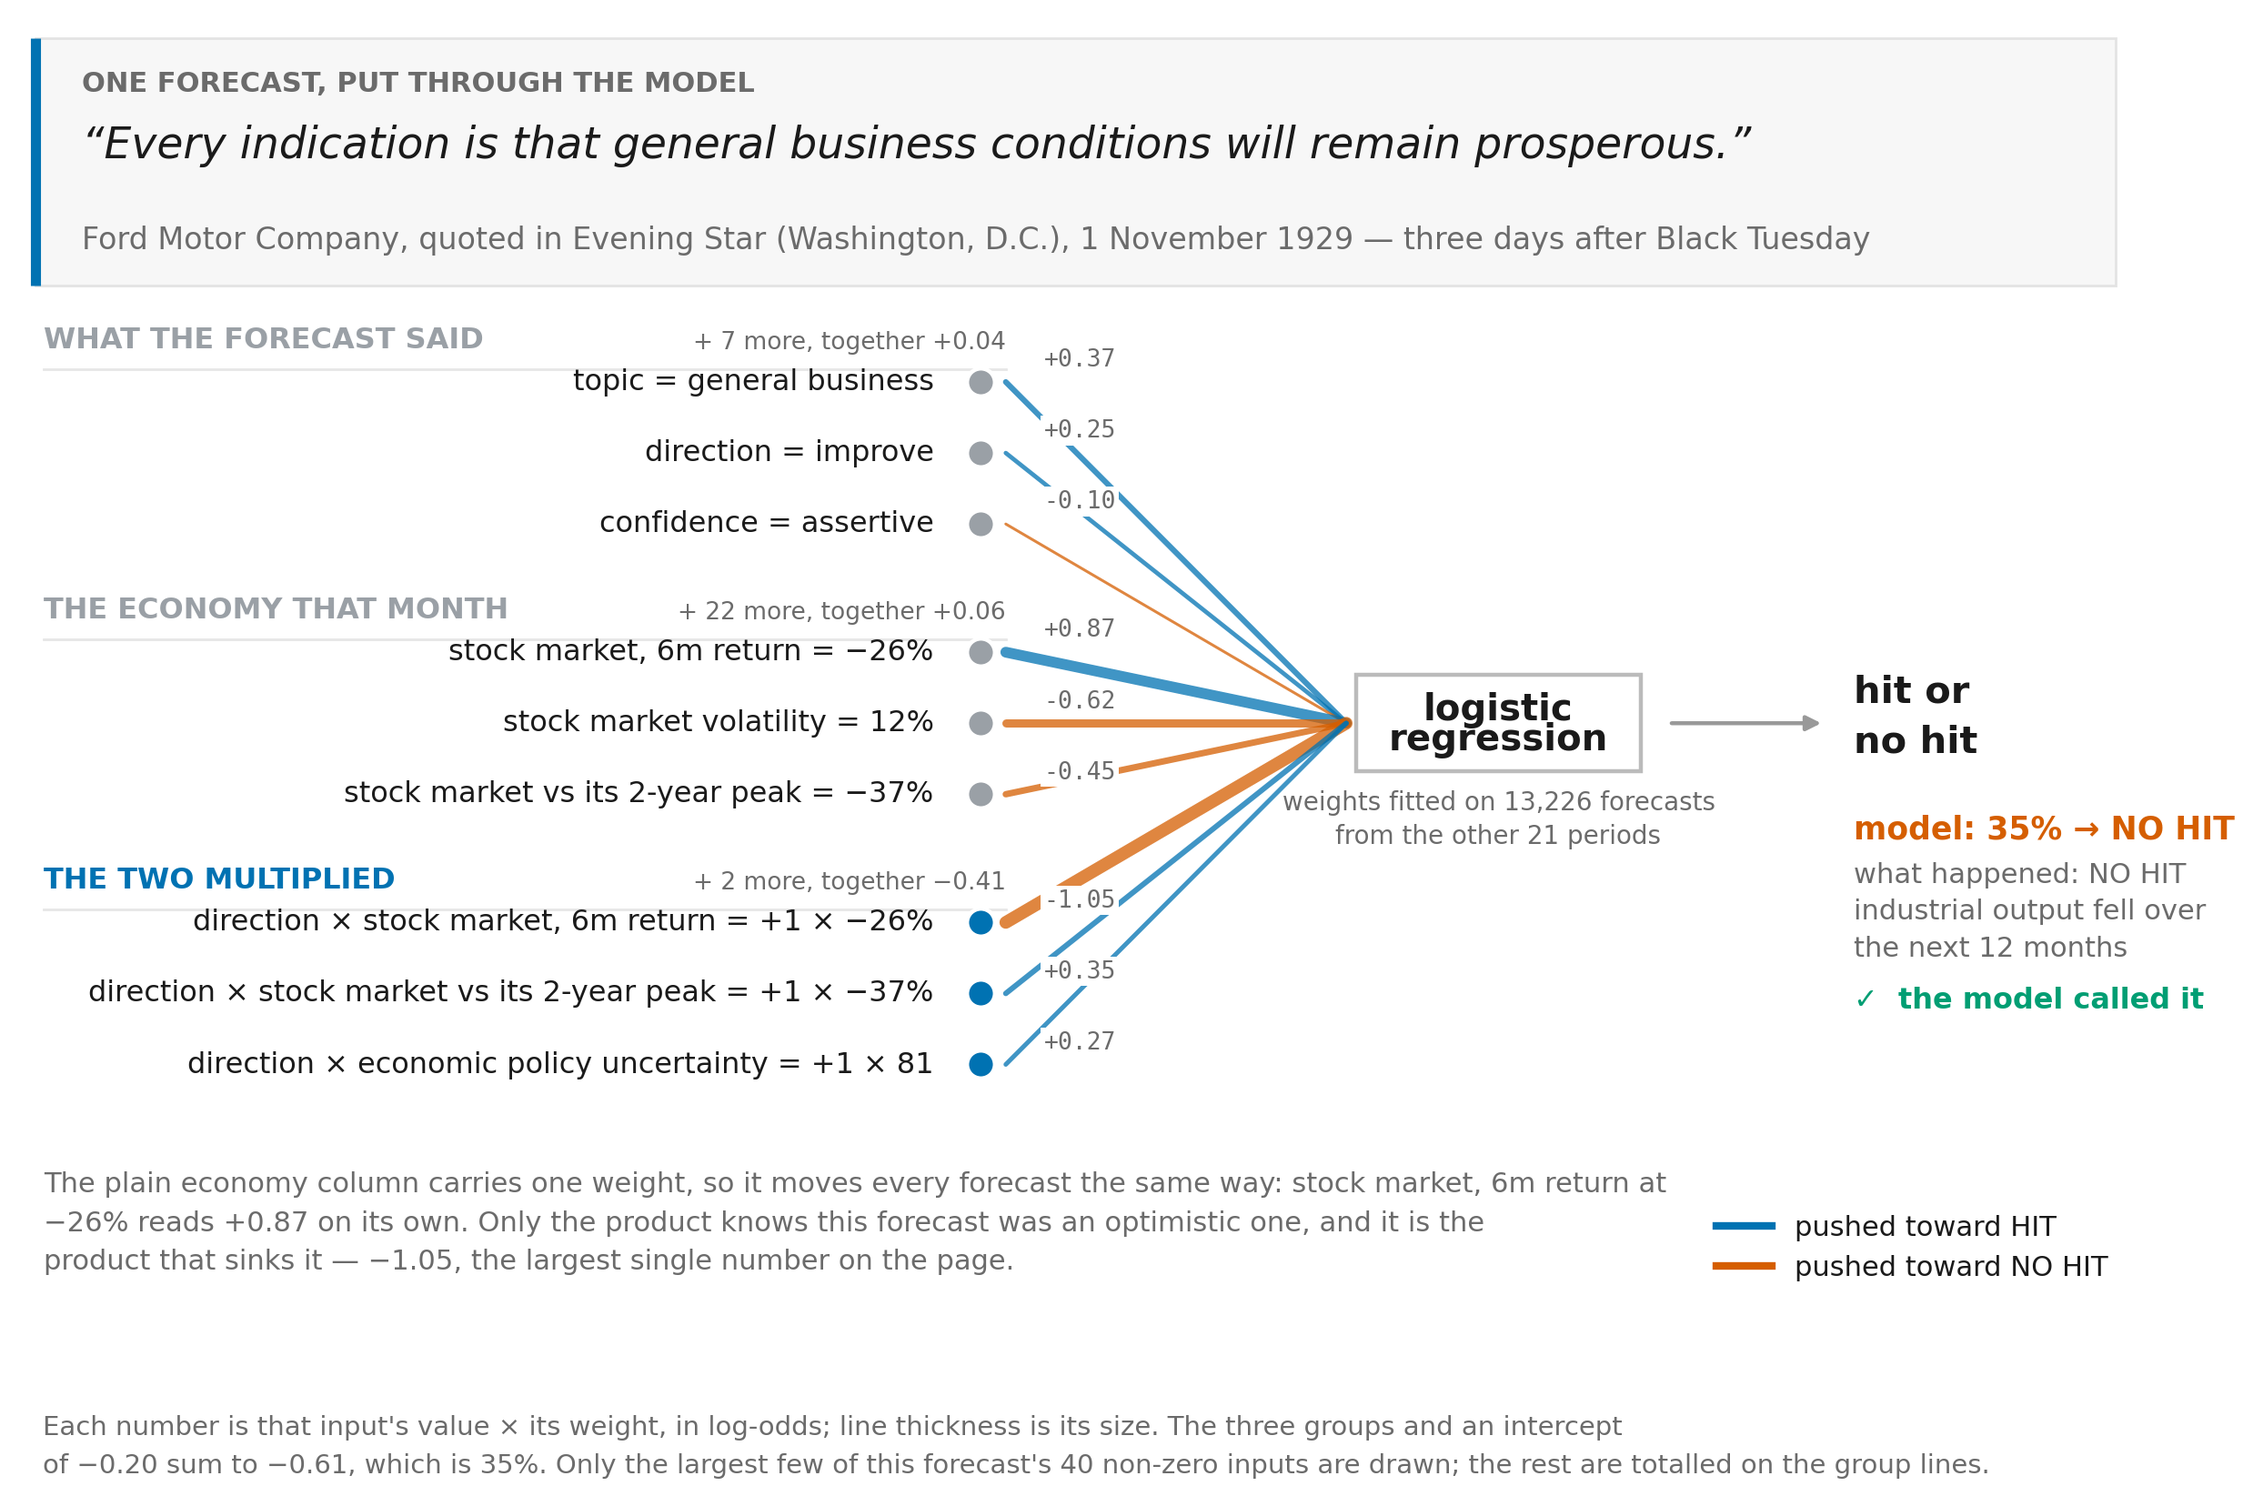
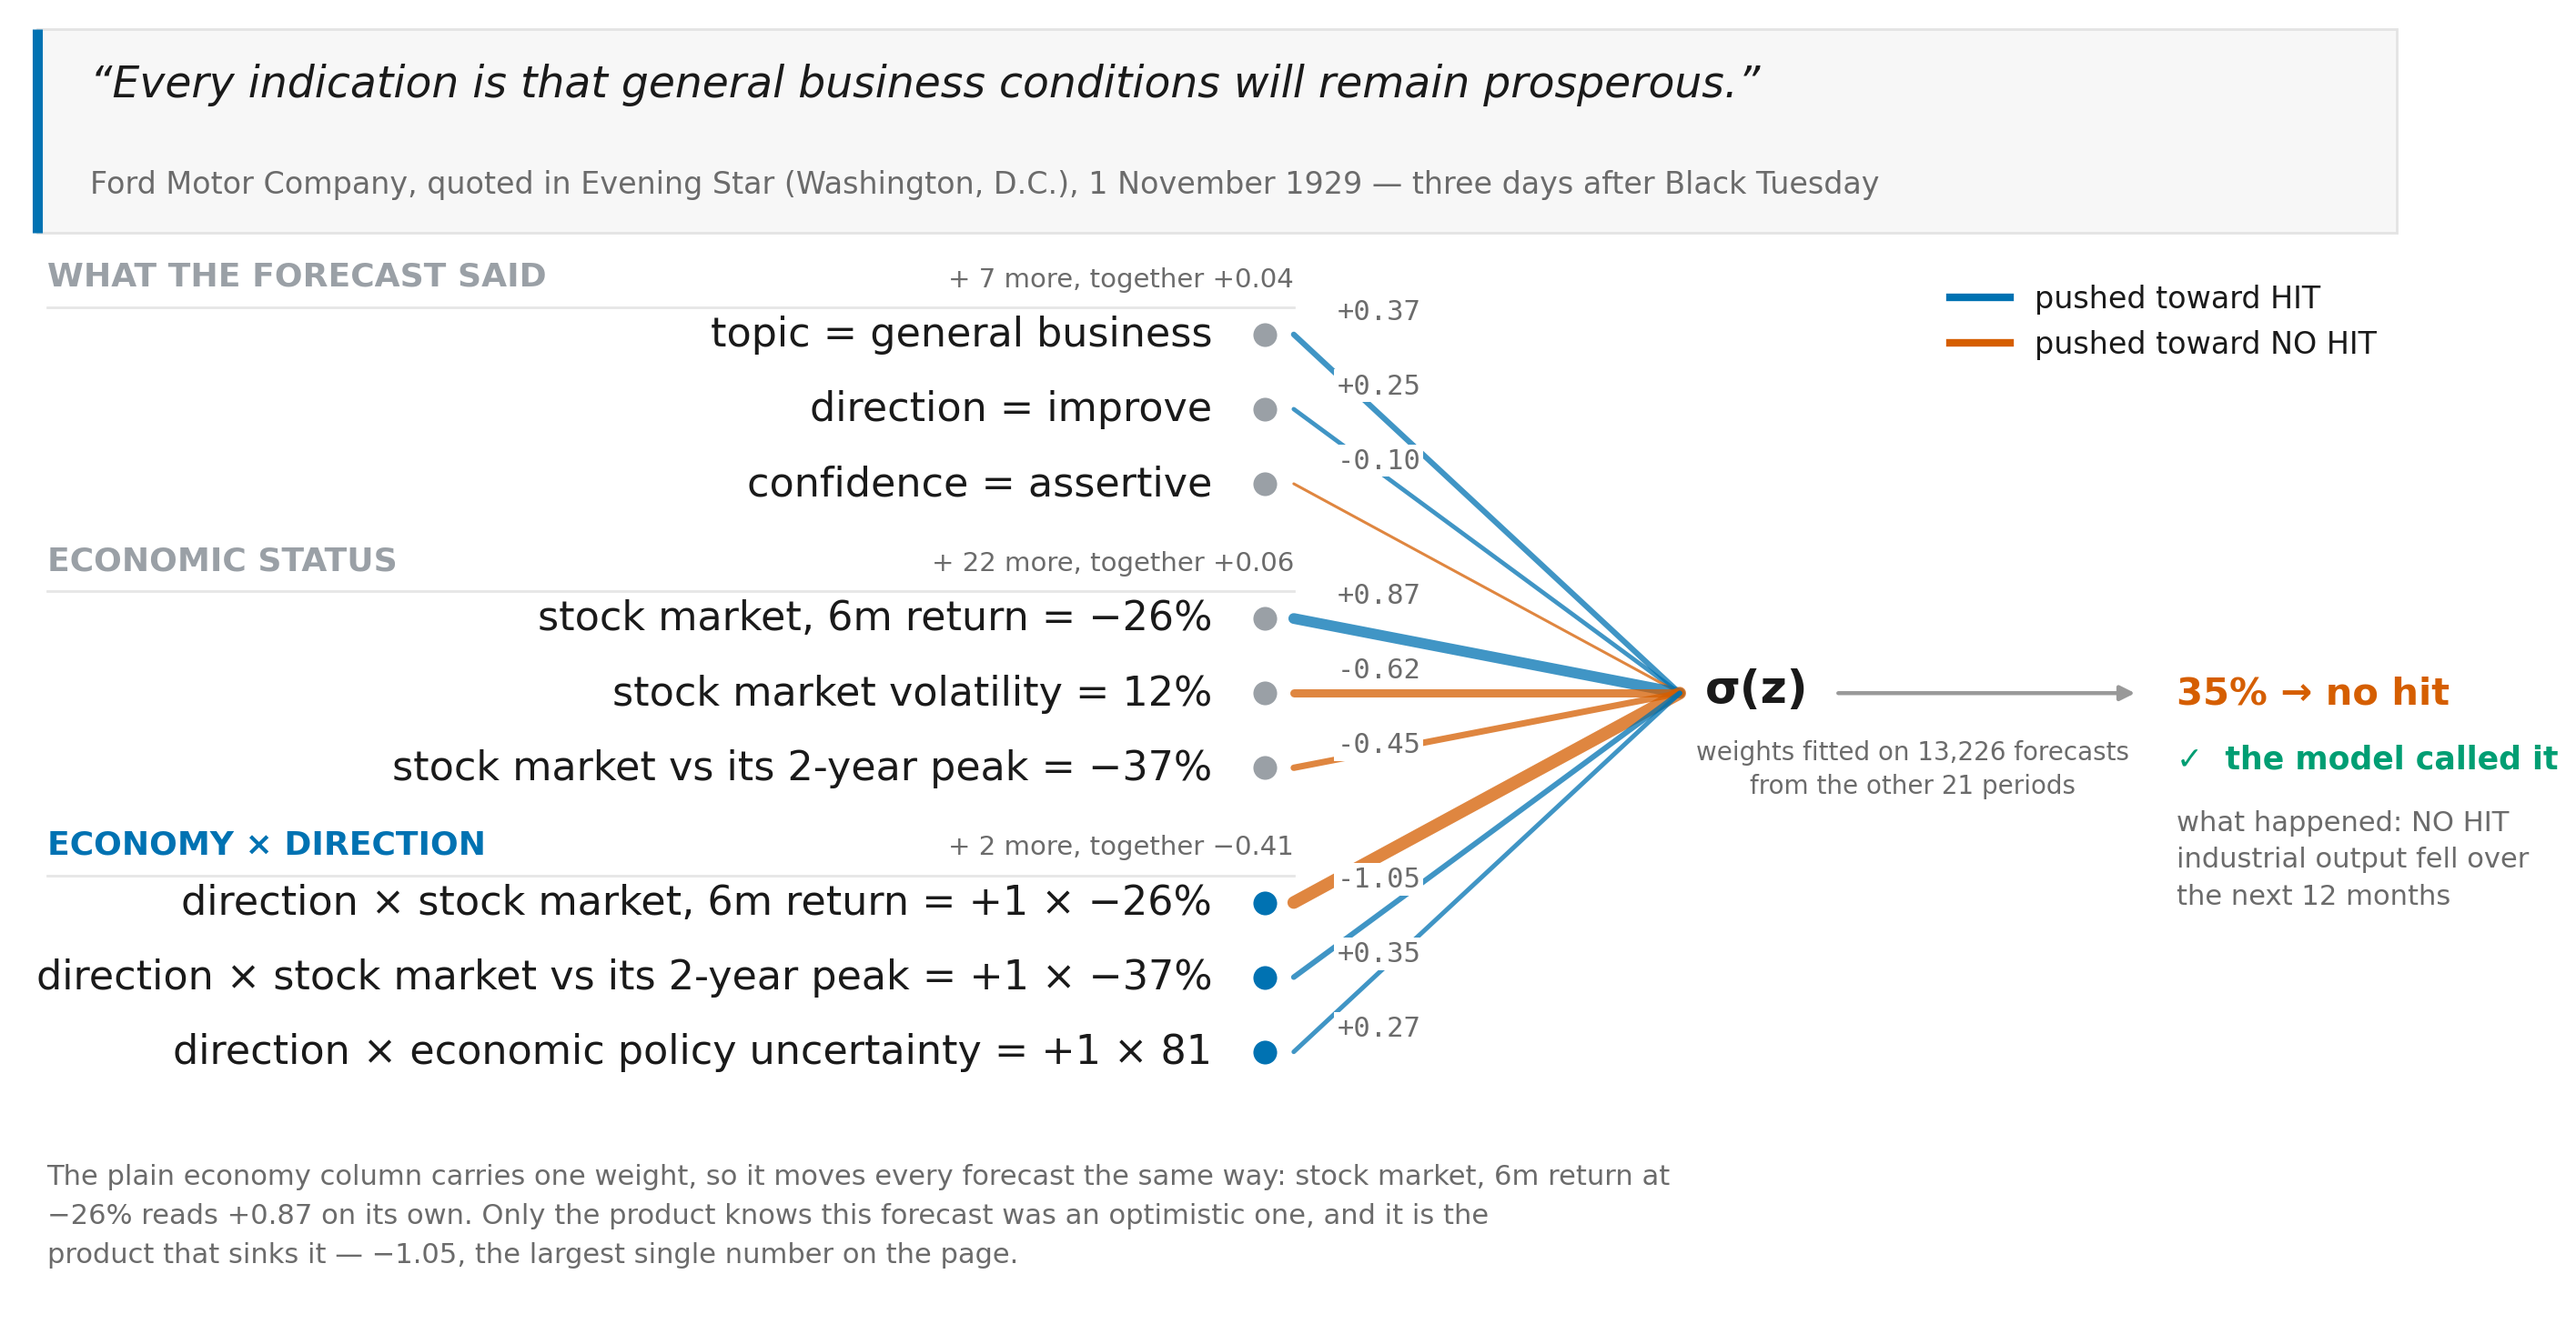
more

diff --git a/src/make_lr_figures.py b/src/make_lr_figures.py
@@ -345,9 +345,9 @@ def fig_ladder_lr():
 # makes the group subtotals fail to add up to the log-odds printed underneath.
 GROUPS = [
     ("what the forecast said", hp.CLAIM_CAT + hp.CLAIM_NUM, GRAY),
-    ("the economy that month",
+    ("economic status",
      [f"m_{f}" for f in FACTORS] + [f"has_{f}" for f in FACTORS], GRAY),
-    ("the two multiplied", hp.INTER_NUM, BLUE),
+    ("economy × direction", hp.INTER_NUM, BLUE),
 ]
 
 # The one claim the figure walks through. Matched on fields rather than a row
@@ -442,7 +442,6 @@ def fig_graph(d, X, y, groups, per_group=3, spec=EXAMPLE):
     est, n_train, n_blocks = _fit_excluding(X, y, groups, groups[i])
     C = _contributions(est, X, i)
     p = float(est.predict_proba(X.iloc[[i]])[0, 1])
-    b0 = float(est.named_steps["clf"].intercept_[0])
     live = C[C["z"] != 0]           # an input at its mean moved nothing
 
     def value(n):
@@ -499,24 +498,26 @@ def fig_graph(d, X, y, groups, per_group=3, spec=EXAMPLE):
         sel = list(live.loc[cols, "contrib"].abs()
                    .sort_values(ascending=False).head(per_group).index)
         rest = [c for c in cols if c not in sel]
-        headers.append((name, colr, yy_cursor + 0.030, len(rest),
+        headers.append((name, colr, yy_cursor + 0.044, len(rest),
                         float(live.loc[rest, "contrib"].sum())))
         for c in sel:
             chosen.append((c, colr, yy_cursor))
             yy_cursor -= ROW
         yy_cursor -= GAP
 
-    fig, ax = plt.subplots(figsize=(15.0, 9.2))
-    ax.set_xlim(0, 1); ax.set_ylim(yy_cursor + GAP - 0.185, 1.30)
+    # Wider than tall on purpose: the input labels are the longest text on the
+    # figure, and inches of width are what let them be set large. The top limit
+    # sits just above the quote box -- bbox_inches="tight" keeps the whole axes
+    # patch, so any headroom past the box printed as a band of white above it.
+    fig, ax = plt.subplots(figsize=(17.0, 9.2))
+    ax.set_xlim(0, 1); ax.set_ylim(yy_cursor + GAP - 0.185, 1.232)
     ax.axis("off"); ax.grid(False)
 
     # -- the forecast itself, quoted across the top ---------------------------
-    ax.add_patch(plt.Rectangle((0.008, 1.010), 0.984, 0.268, facecolor="#f7f7f7",
+    ax.add_patch(plt.Rectangle((0.008, 1.010), 0.984, 0.210, facecolor="#f7f7f7",
                                edgecolor="#e3e3e3", lw=1.0, zorder=0))
-    ax.plot([0.008, 0.008], [1.010, 1.278], color=BLUE, lw=4.0, zorder=1,
+    ax.plot([0.008, 0.008], [1.010, 1.220], color=BLUE, lw=4.0, zorder=1,
             solid_capstyle="butt")
-    ax.text(0.030, 1.243, "ONE FORECAST, PUT THROUGH THE MODEL", fontsize=11,
-            fontweight="bold", color=MUTED, va="top")
     ax.text(0.030, 1.185, f"“{row['quote'].strip()}”", fontsize=17,
             style="italic", va="top", color=INK)
     speaker = str(row.get("speaker_name", "na"))
@@ -528,7 +529,10 @@ def fig_graph(d, X, y, groups, per_group=3, spec=EXAMPLE):
 
     ys = [t[2] for t in chosen]
     chosen = [(c, colr) for c, colr, _ in chosen]
-    x_node, x_lr = 0.455, 0.700
+    # The node column sits far enough right for the longest label -- "direction
+    # x stock market vs its 2-year peak = ..." at 13.5pt -- to clear the group
+    # headers on the left edge; sigma(z) and the verdict move right to match.
+    x_node, x_lr = 0.520, 0.765
     y_mid = (ys[0] + ys[-1]) / 2
     biggest = max(abs(live.at[c, "contrib"]) for c, _ in chosen)
 
@@ -542,46 +546,35 @@ def fig_graph(d, X, y, groups, per_group=3, spec=EXAMPLE):
     for (c, colr), yy in zip(chosen, ys):
         ax.plot([x_node], [yy], "o", ms=11, color=colr, mec="white", mew=1.6,
                 zorder=4)
-        ax.text(x_node - 0.022, yy, nice(c), fontsize=11.5, ha="right",
+        ax.text(x_node - 0.022, yy, nice(c), fontsize=16, ha="right",
                 va="center", color=INK)
         # White bbox: the edge leaves the node at a steep angle and passes
         # straight through where the number would otherwise sit.
         ax.text(x_node + 0.030, yy + 0.024, f"{live.at[c, 'contrib']:+.2f}",
-                fontsize=9.5, ha="left", va="center", color=MUTED,
+                fontsize=11, ha="left", va="center", color=MUTED,
                 family="monospace", zorder=6,
                 bbox=dict(facecolor="white", edgecolor="none", pad=1.2))
 
     # group headers, each sitting in the whitespace above its own rows
     for name, colr, yy, rest, rest_sum in headers:
-        ax.text(0.012, yy, name.upper(), fontsize=11.5, fontweight="bold",
+        ax.text(0.012, yy, name.upper(), fontsize=13, fontweight="bold",
                 va="bottom", ha="left", color=colr)
         ax.text(x_node + 0.012, yy,
-                f"+ {rest} more, together {_signed(rest_sum)}", fontsize=9.5,
+                f"+ {rest} more, together {_signed(rest_sum)}", fontsize=10.5,
                 color=MUTED, va="bottom", ha="right")
         ax.plot([0.012, x_node + 0.012], [yy - 0.016, yy - 0.016],
                 color="#e6e6e6", lw=1.0, zorder=1)
 
-    # the model, as one box
-    box_w, box_h = 0.135, 0.105
-    ax.add_patch(plt.Rectangle((x_lr - box_w / 2, y_mid - box_h / 2), box_w,
-                               box_h, facecolor="white", edgecolor="#bbbbbb",
-                               lw=1.6, zorder=5))
-    ax.text(x_lr, y_mid + 0.015, "logistic", fontsize=14.5, ha="center",
+    # The step that turns the summed log-odds into a probability. No box: the
+    # edges already converge on it, and the frame only competed with them.
+    ax.text(x_lr - 0.040, y_mid + 0.004, "σ(z)", fontsize=18, ha="center",
             va="center", zorder=6, fontweight="bold")
-    ax.text(x_lr, y_mid - 0.018, "regression", fontsize=14.5, ha="center",
-            va="center", zorder=6, fontweight="bold")
-    ax.text(x_lr, y_mid - box_h / 2 - 0.020,
+    # Right of centre and well below: the edges converge at x_lr - 0.072, and a
+    # caption centred under the label ran its first words into the fan.
+    ax.text(x_lr + 0.025, y_mid - 0.048,
             f"weights fitted on {n_train:,} forecasts\n"
             f"from the other {n_blocks} periods",
             fontsize=10, ha="center", va="top", color=MUTED, linespacing=1.4)
-
-    ax.annotate("", xy=(0.855, y_mid), xytext=(x_lr + box_w / 2 + 0.012, y_mid),
-                arrowprops=dict(arrowstyle="-|>", color="#999999", lw=1.6),
-                zorder=4)
-    ax.text(0.868, y_mid + 0.014, "hit or", fontsize=15, va="bottom",
-            color=INK, fontweight="bold")
-    ax.text(0.868, y_mid - 0.001, "no hit", fontsize=15, va="top", color=INK,
-            fontweight="bold")
 
     # what the model said about THIS forecast, and what happened
     said = "HIT" if p >= 0.5 else "NO HIT"
@@ -589,18 +582,22 @@ def fig_graph(d, X, y, groups, per_group=3, spec=EXAMPLE):
     what = BASIS_PRETTY.get(str(row["basis"]), str(row["basis"]))
     verb = {"improve": "rose", "up": "rose", "worsen": "fell",
             "down": "fell"}.get(str(row["realized"]), "moved the other way")
-    ax.text(0.868, y_mid - 0.098, f"model: {p:.0%} → {said}", fontsize=12.5,
-            va="top", color=VERM if said == "NO HIT" else BLUE,
-            fontweight="bold")
-    ax.text(0.868, y_mid - 0.150,
+
+    ax.annotate("", xy=(0.885, y_mid), xytext=(x_lr - 0.008, y_mid),
+                arrowprops=dict(arrowstyle="-|>", color="#999999", lw=1.6),
+                zorder=4)
+    ax.text(0.900, y_mid, f"{p:.0%} → {said.lower()}", fontsize=15,
+            va="center", fontweight="bold",
+            color=VERM if said == "NO HIT" else BLUE)
+    ax.text(0.900, y_mid - 0.052,
+            "✓  the model called it" if said == truth
+            else "✗  the model missed it",
+            fontsize=12.5, va="top", fontweight="bold",
+            color=GREEN if said == truth else VERM)
+    ax.text(0.900, y_mid - 0.120,
             f"what happened: {truth}\n{what} {verb} over\n"
             f"the next {int(row['horizon_used'])} months",
             fontsize=11, va="top", color=MUTED, linespacing=1.5)
-    ax.text(0.868, y_mid - 0.285,
-            "✓  the model called it" if said == truth
-            else "✗  the model missed it",
-            fontsize=11.5, va="top", fontweight="bold",
-            color=GREEN if said == truth else VERM)
 
     # Why the same falling market reads one sign on its own and the opposite
     # once multiplied -- the pair of numbers on the figure that looks like a
@@ -619,22 +616,14 @@ def fig_graph(d, X, y, groups, per_group=3, spec=EXAMPLE):
                 f"number on the page.",
                 fontsize=11, color=MUTED, va="top", linespacing=1.6)
 
+    # Anchored in DATA coords: the top-right corner of the axes is empty, but it
+    # sits above the quoted forecast's box, so an axes-fraction anchor would put
+    # the legend inside the quote.
     ax.plot([], [], color=BLUE, lw=3, label="pushed toward HIT")
     ax.plot([], [], color=VERM, lw=3, label="pushed toward NO HIT")
-    ax.legend(frameon=False, loc="lower right", fontsize=11,
-              bbox_to_anchor=(1.0, 0.0))
+    ax.legend(frameon=False, loc="upper right", fontsize=12,
+              bbox_to_anchor=(0.995, 0.985), bbox_transform=ax.transData)
 
-    total = b0 + float(live["contrib"].sum())
-    # x in FIGURE coords, chosen to land on the axes' own left edge so the
-    # footnote lines up with the group headers rather than hanging off to the
-    # left of them (bbox_inches="tight" then crops to that same edge).
-    fig.text(0.134, 0.045,
-             "Each number is that input's value × its weight, in log-odds; line "
-             "thickness is its size. The three groups and an intercept\nof "
-             f"{_signed(b0)} sum to {_signed(total)}, which is {p:.0%}. Only the "
-             f"largest few of this forecast's {len(live)} non-zero inputs are "
-             "drawn; the rest are totalled on the group lines.",
-             fontsize=10.5, color=MUTED, va="top", linespacing=1.6)
     fig.savefig(OUT / "figR_lr_graph.png", bbox_inches="tight")
     plt.close(fig)
     print(f"  -> {OUT / 'figR_lr_graph.png'}  (example: {row['date']}, "
